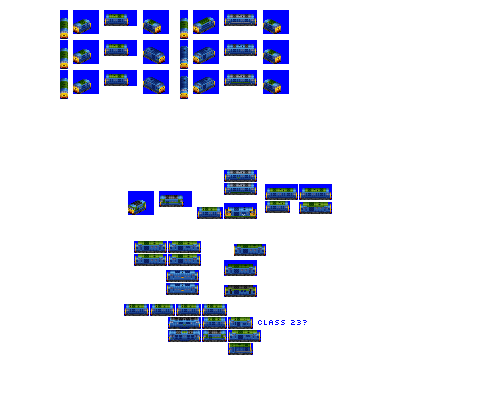
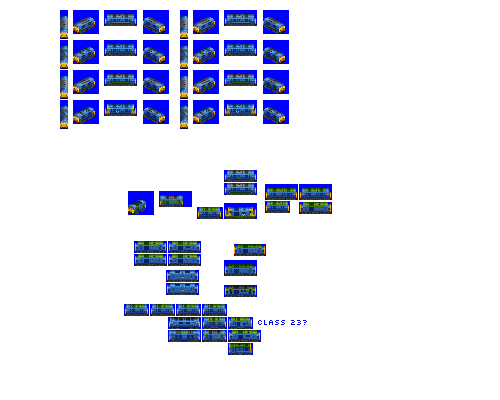
Change: sprites complete for Maelstrom

diff --git a/src/vehicles/maelstrom.py b/src/vehicles/maelstrom.py
@@ -17,7 +17,9 @@ def main(roster_id):
         gen=4,
         intro_year_offset=-2,  # let's not have everything turn up in 1960
         additional_liveries=["BANGER_BLUE", "SWOOSH"],
-        sprites_complete=False,
+        #additional_liveries=["BANGER_BLUE", "SWOOSH", "RAILFREIGHT_RED_STRIPE"],
+        sprites_complete=True,
+        sprites_additional_liveries_needed=True, # railfreight?
     )
 
     consist.add_unit(
